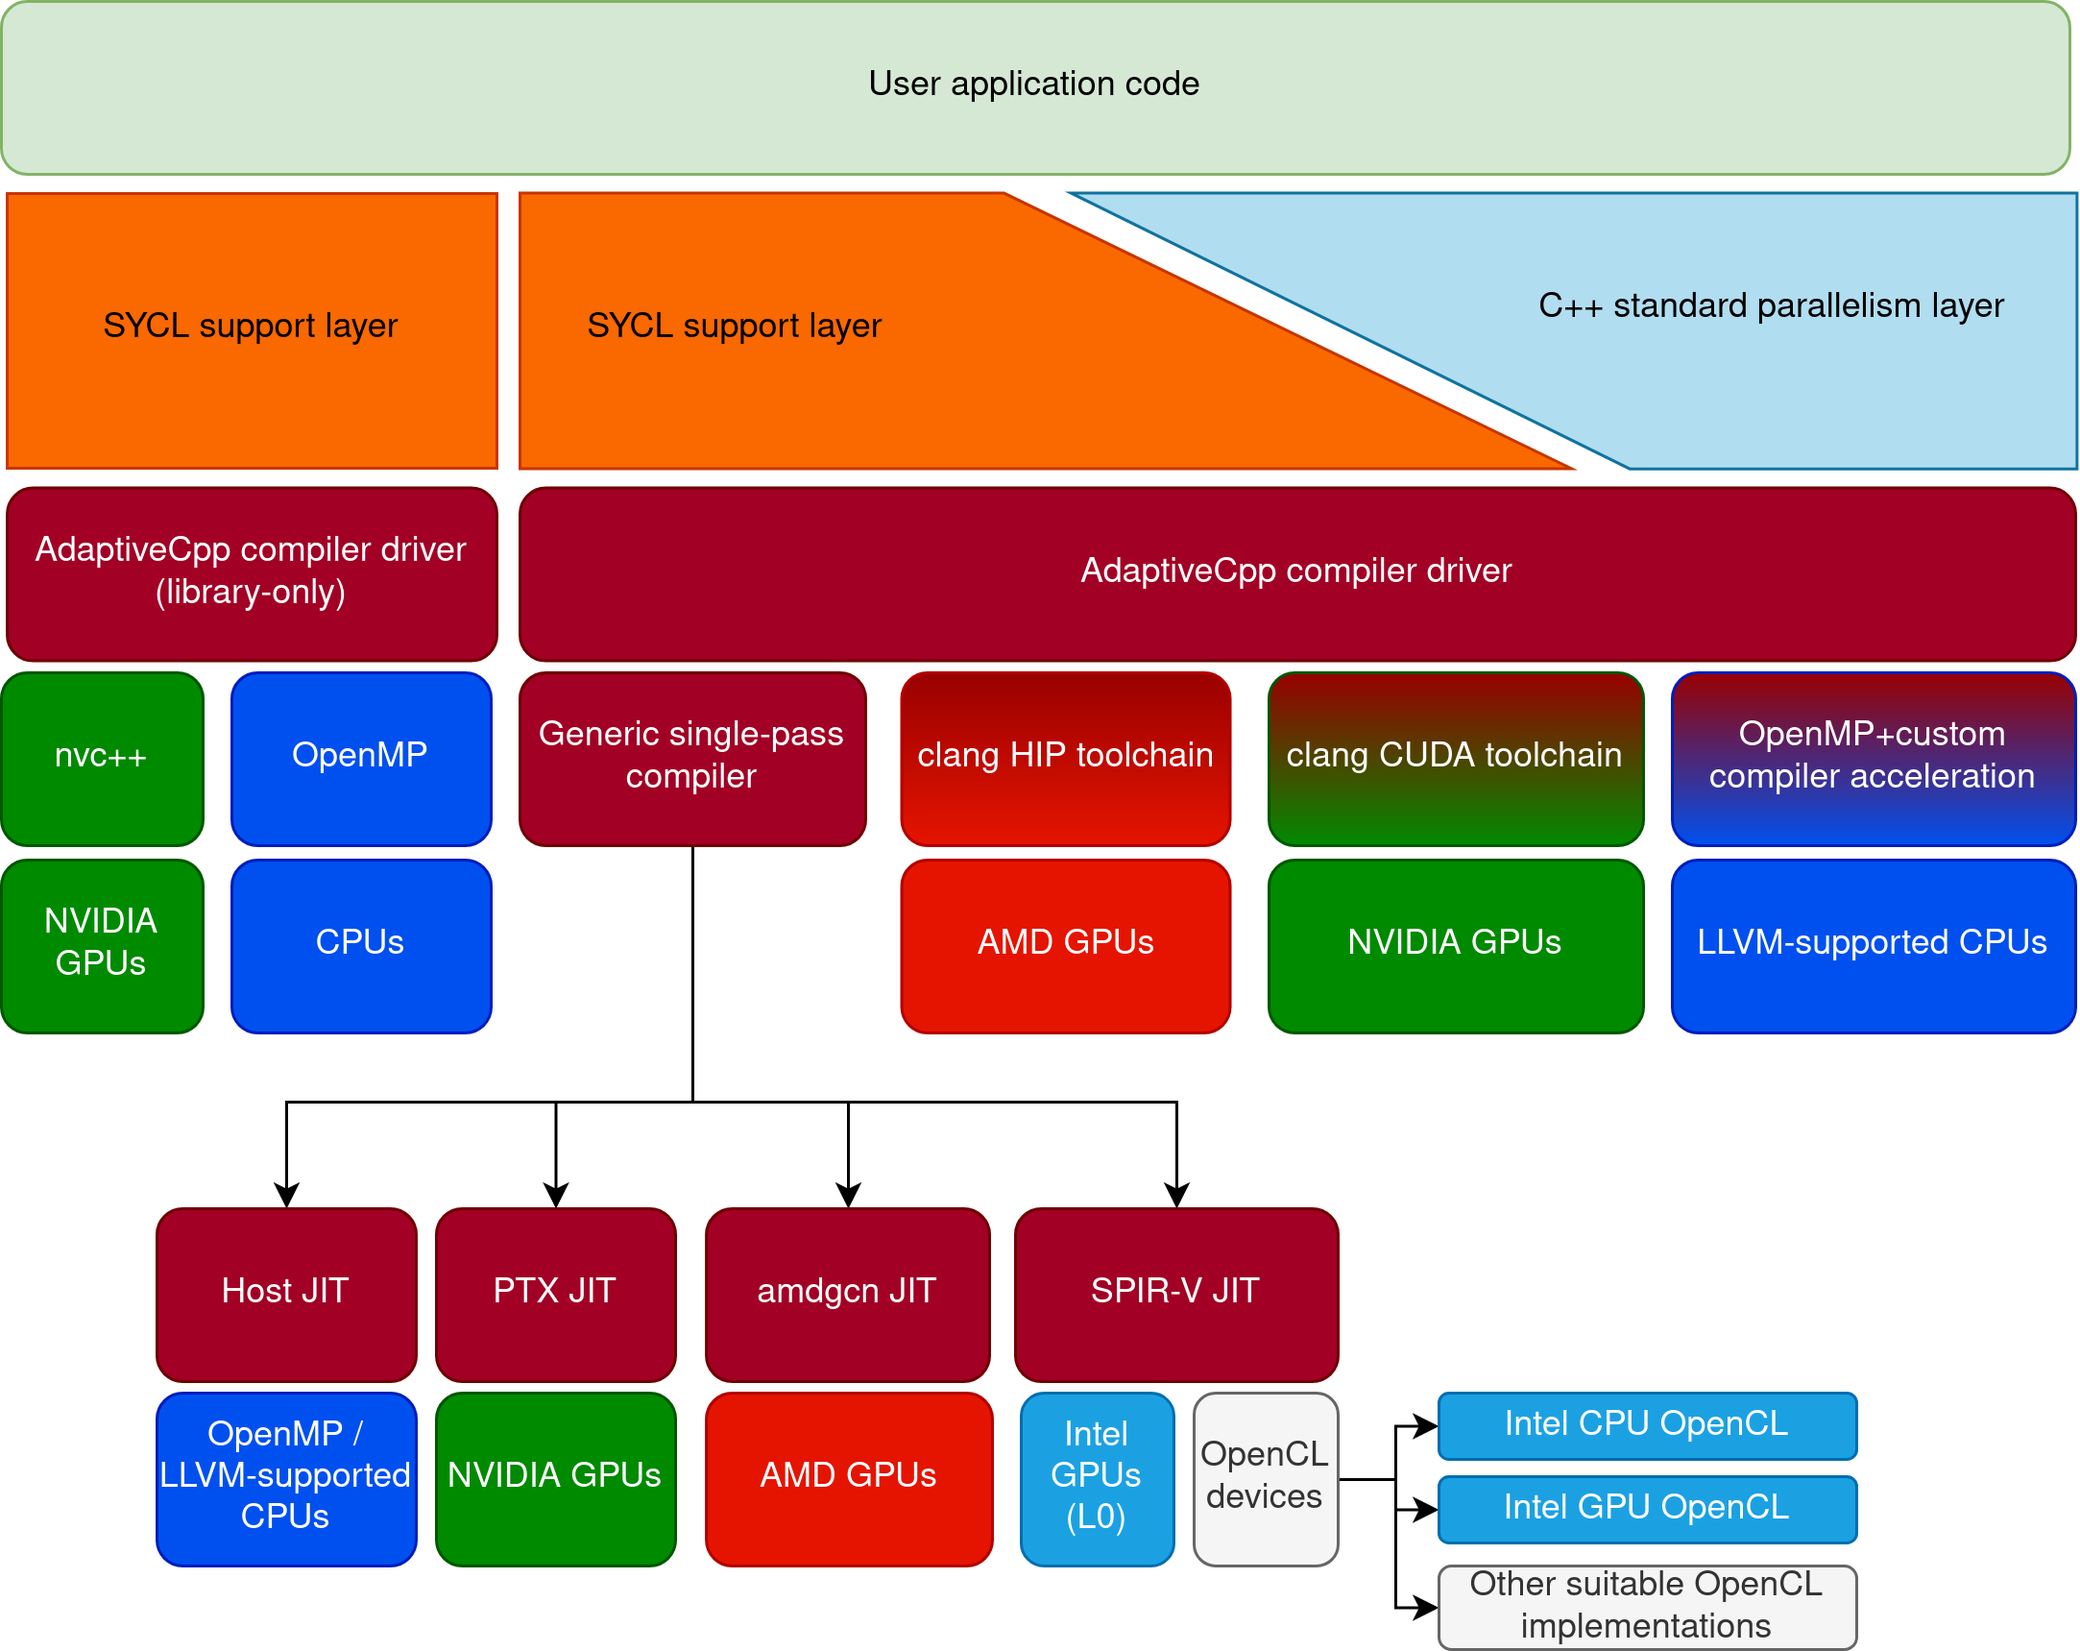
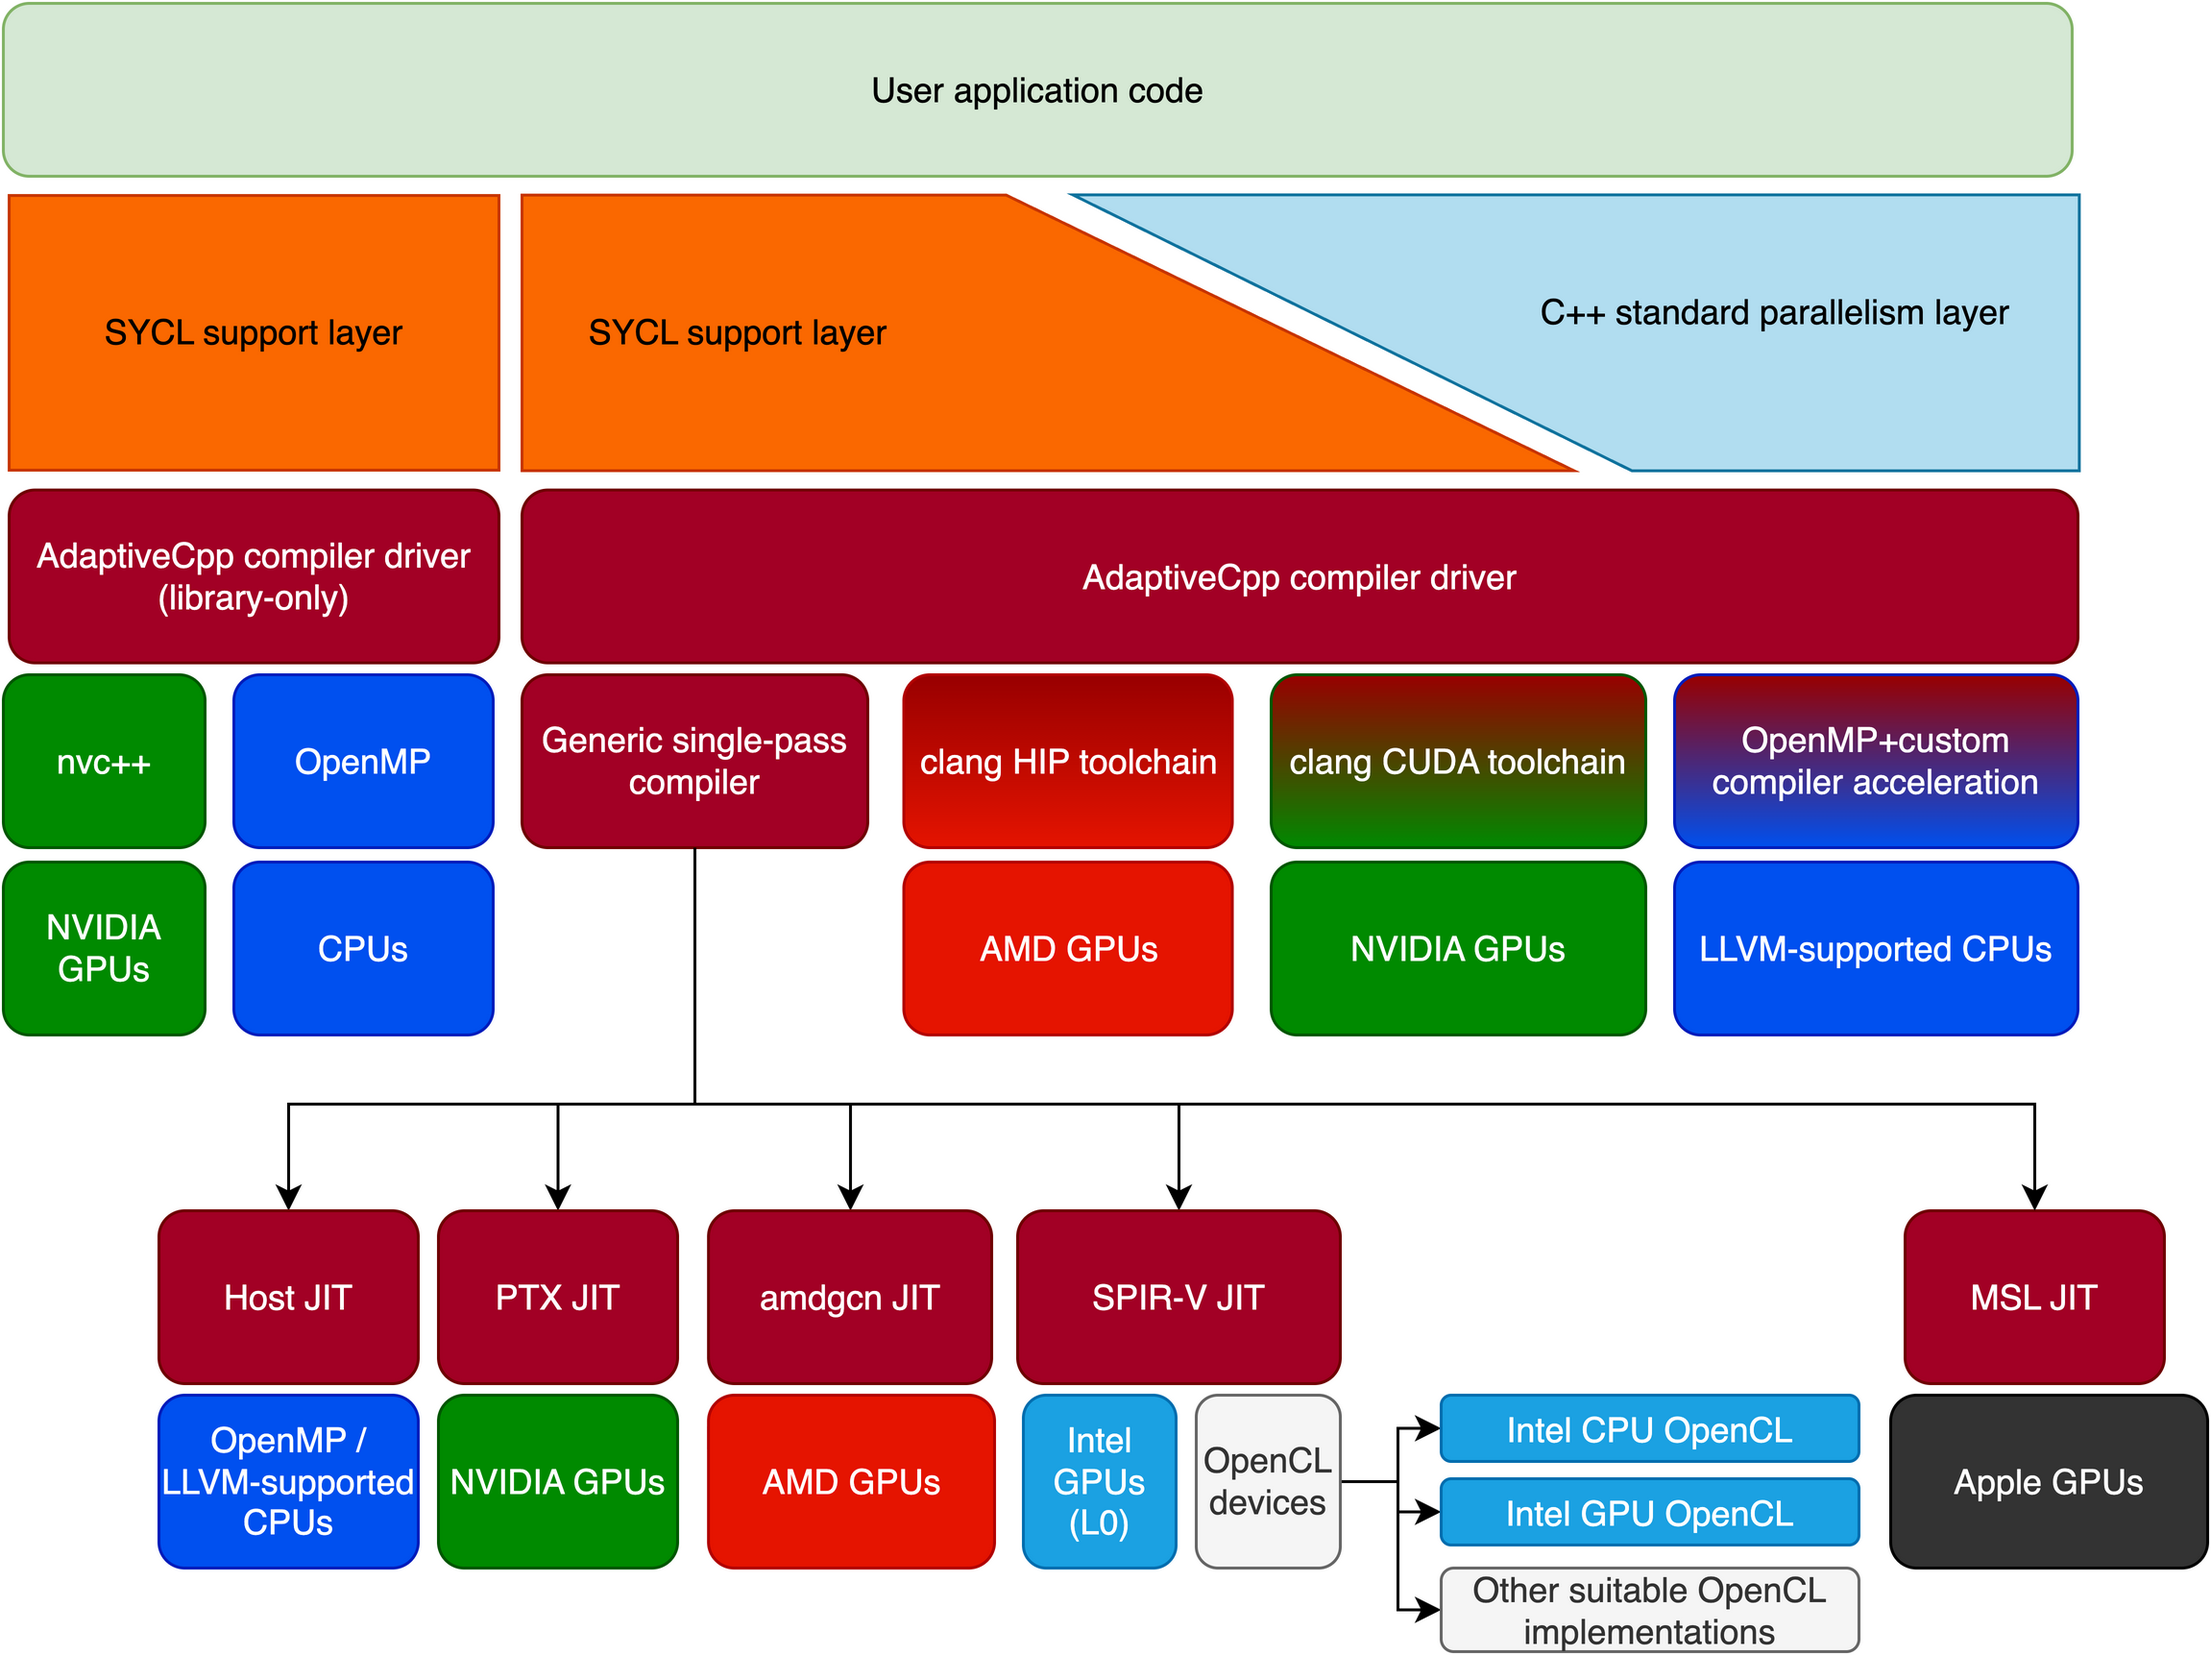
Add Apple to docs

diff --git a/doc/img/render-implementations.py b/doc/img/render-implementations.py
@@ -234,8 +234,12 @@ if __name__ == '__main__':
   add_backend(graph, "acpp_ocl", acpp_grey, {'OpenCL SPIR-V devices' : intel_blue},
               description="OpenCL")
 
+  apple_grey = make_html_color("333333")
+  add_backend(graph, "acpp_metal", acpp_grey, {'Apple GPUs' : apple_grey},
+              description="Metal")
+
   add_implementation(graph, "AdaptiveCpp", acpp_grey, acpp_red,
-                     ["acpp_cuda", "acpp_rocm", "acpp_openmp", "acpp_l0", "acpp_ocl"])
+                     ["acpp_cuda", "acpp_rocm", "acpp_openmp", "acpp_l0", "acpp_ocl", "acpp_metal"])
 
   ####################### triSYCL ##############################
 

diff --git a/doc/architecture.md b/doc/architecture.md
@@ -34,9 +34,9 @@ Because of this, and to simplify the AdaptiveCpp build process, the SYCL interfa
 
 ## AdaptiveCpp runtime
 
-The runtime implements device management, task graph management and execution, data management, backend management, scheduling and task synchronization. It interfaces with the runtime components of the supported backends (e.g. the CUDA runtime).
+The runtime implements device management, task graph management and execution, data management, backend management, scheduling and task synchronization. It interfaces with the runtime components of the supported backends (e.g. the CUDA runtime, or the Metal API on macOS).
 
-Unlike the SYCL interface, the runtime is not header-only - it is in fact the major component that needs to be compiled when building AdaptiveCpp. The runtime (compiled as `libacpp-rt`) is a unified library for all backends. Backends are implemented using polymorphism, i.e. as classes derived from an abstract `backend` base class. They are dynamically loaded from plugins. When the runtime is initialized, all available backend plugins are discovered and loaded. This means that, *regardless of what target the user compiles SYCL code for, all devices seen by available backends will show up when querying available devices*. 
+Unlike the SYCL interface, the runtime is not header-only - it is in fact the major component that needs to be compiled when building AdaptiveCpp. The runtime (compiled as `libacpp-rt`) is a unified library for all backends. Backends are implemented using polymorphism, i.e. as classes derived from an abstract `backend` base class. They are dynamically loaded from plugins (`librt-backend-cuda`, `librt-backend-hip`, `librt-backend-level-zero`, `librt-backend-metal`, etc.). When the runtime is initialized, all available backend plugins are discovered and loaded. This means that, *regardless of what target the user compiles SYCL code for, all devices seen by available backends will show up when querying available devices*. 
 However, in order to actually run kernels on a particular device, it is additionally necessary that the compiler component has generated code for this device. This can lead to the situation where a user can select a device for computation just fine, but then is unable to run kernels on the device if it has not been specified as compilation target when compiling the SYCL code.
 
 Because the runtime is compiled like any regular C++ library, it *must not use functionality from the SYCL interface*, since the SYCL interface in general *cannot* be compiled by a regular C++ compiler.

diff --git a/doc/compilation.md b/doc/compilation.md
@@ -7,7 +7,8 @@ AdaptiveCpp supports multiple types of compilation flows:
     2. AMD ROCm GPUs through amdgcn code;
     3. Intel GPUs through SPIR-V (Level Zero);
     4. SPIR-V compatible OpenCL devices supporting Intel USM extensions or fine-grained system SVM (such as Intel's OpenCL implementation for CPUs or GPUs);
-    5. The host CPU through LLVM
+    5. The host CPU through LLVM;
+    6. Apple GPUs through Metal Shading Language (MSL) — experimental
 2. Interoperability-focused multipass compilation flows. **AdaptiveCpp can aggregate existing clang toolchains and augment them with support for SYCL constructs**. This allows for a high degree of interoperability between SYCL and other models such as CUDA or HIP. For example, in this mode, the AdaptiveCpp CUDA and ROCm backends rely on the clang CUDA/HIP frontends that have been augmented by AdaptiveCpp to *additionally* also understand other models like SYCL. This means that the AdaptiveCpp compiler can not only compile SYCL code, but also CUDA/HIP code *even if they are mixed in the same source file*, making all CUDA/HIP features - such as the latest device intrinsics - also available from SYCL code ([details](hip-source-interop.md)). Additionally, vendor-optimized template libraries such as rocPRIM or CUB can also be used with AdaptiveCpp. This allows for highly optimized code paths in SYCL code for specific devices. Support includes:
     1. Any LLVM-supported CPU (including e.g. x86, arm, power etc) through the regular clang host toolchain with dedicated compiler transformation to accelerate SYCL constructs;
     2. NVIDIA CUDA GPUs through the clang CUDA toolchain;

diff --git a/README.md b/README.md
@@ -11,7 +11,7 @@ It currently supports the following programming models:
 2. **C++ standard parallelism**: Additionally, AdaptiveCpp features experimental support for offloading C++ algorithms from the parallel STL. See [here](doc/stdpar.md) for details on which algorithms can be offloaded. **AdaptiveCpp is currently the only solution capable of demonstrating C++ standard parallelism performance across NVIDIA, AMD and Intel GPUs, and in most cases outperforms vendor compilers.**
 3. **PCUDA (portable CUDA)**, a dialect of the CUDA/HIP programming model is currently in an experimental support state. See [here](doc/pcuda.md) for details. AdaptiveCpp PCUDA allows for CUDA or HIP code to be compiled to a single binary that can offload kernels to CPUs, NVIDIA GPUs, AMD GPUs and Intel GPUs.
 
-AdaptiveCpp supports CPUs (including x86, arm and other LLVM-supported architectures) as well as GPUs from Intel, NVIDIA, and AMD. This includes the ability to generate a single binary that can offload to all supported devices.
+AdaptiveCpp supports CPUs (including x86, arm and other LLVM-supported architectures) as well as GPUs from Intel, NVIDIA, AMD, and Apple. This includes the ability to generate a single binary that can offload to all supported devices.
 
 AdaptiveCpp's compilation flows include
 1. A powerful, generic LLVM JIT compiler. This is AdaptiveCpp's default, most portable and usually most performant compilation flow. It is also the **world's only SYCL compiler that only needs to parse the source code a single time** across both host and device compilation.

diff --git a/doc/index.md b/doc/index.md
@@ -18,7 +18,7 @@ Welcome to the documentation of AdaptiveCpp!
 
     ---
 
-    We support CPUs and GPUs from all major vendors, either through multipass compilation or through our single-pass SSCP compiler.
+    We support CPUs and GPUs from all major vendors (Intel, NVIDIA, AMD, Apple), either through multipass compilation or through our single-pass SSCP compiler.
 
     [:octicons-arrow-right-24: Usage](./using-acpp.md)
 
